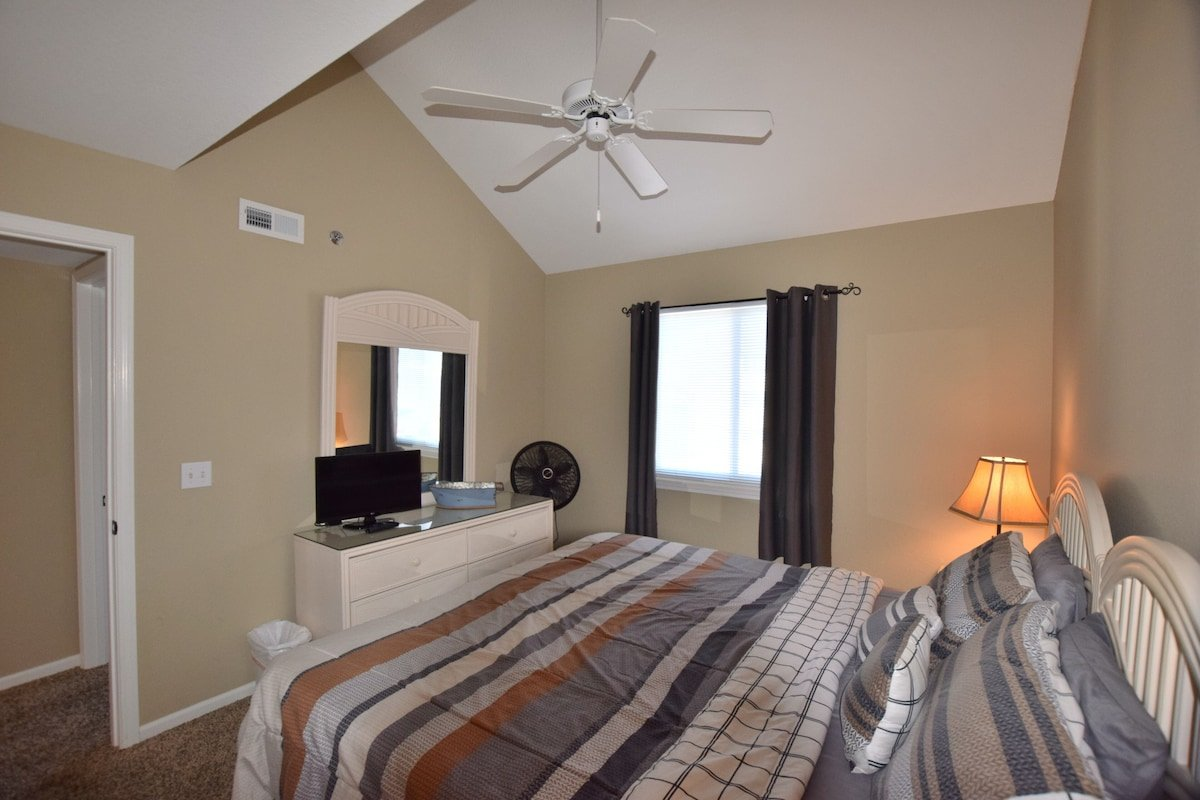
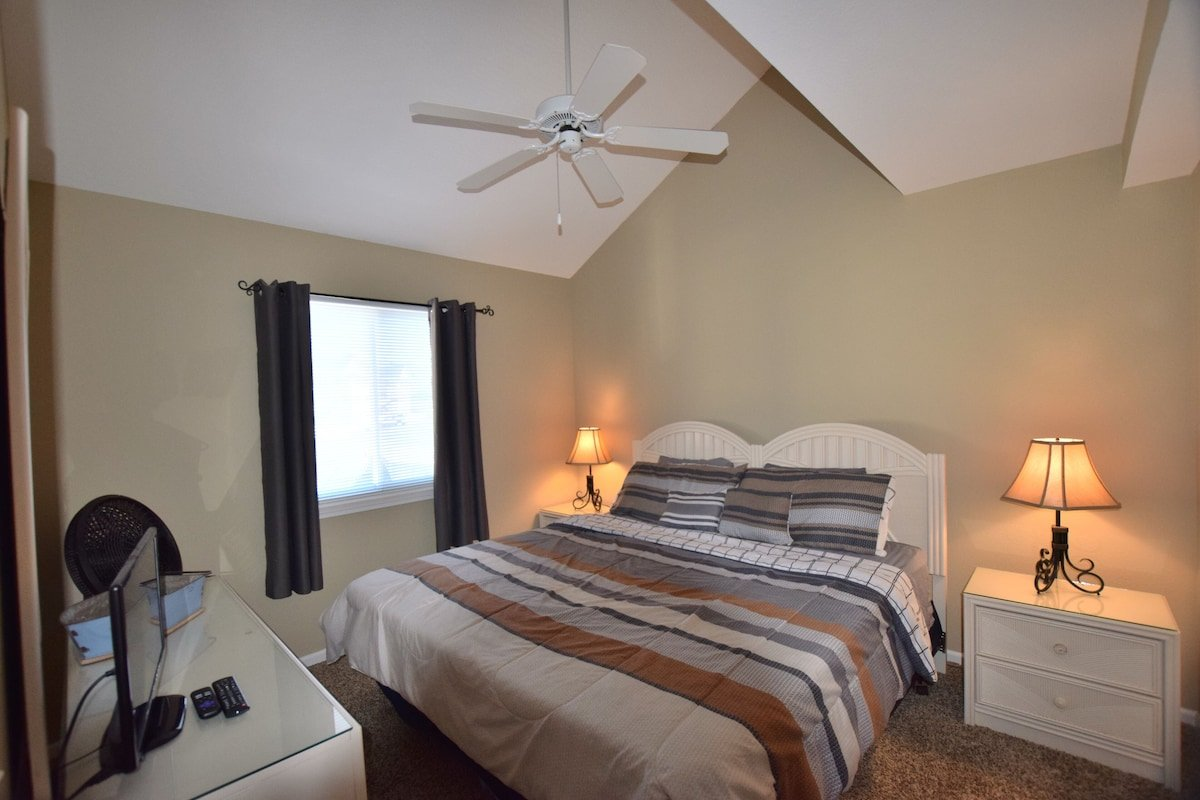
Update image paths and details for 4-bedroom unit 941 to enhance visual consistency by replacing existing images and ensuring accurate representation across property pages.

diff --git a/Properties/Ledges/4-bedroom-sleeps-12-unit-941.html b/Properties/Ledges/4-bedroom-sleeps-12-unit-941.html
@@ -92,16 +92,8 @@
       "4 Bedroom (Sleeps 12) - Unit 941/img001.jpeg",
       "4 Bedroom (Sleeps 12) - Unit 941/img020.jpeg",
       "4 Bedroom (Sleeps 12) - Unit 941/img021.jpeg",
-      "4 Bedroom (Sleeps 12) - Unit 941/img022.jpeg",
-      "4 Bedroom (Sleeps 12) - Unit 941/img023.jpeg",
-      "4 Bedroom (Sleeps 12) - Unit 941/img024.jpeg",
-      "4 Bedroom (Sleeps 12) - Unit 941/img025.jpeg",
-      "4 Bedroom (Sleeps 12) - Unit 941/img026.jpeg",
-      "4 Bedroom (Sleeps 12) - Unit 941/img027.jpeg",
-      "4 Bedroom (Sleeps 12) - Unit 941/img028.jpeg",
       "4 Bedroom (Sleeps 12) - Unit 941/img029.jpeg",
-      "4 Bedroom (Sleeps 12) - Unit 941/img001.jpeg",
-
+      "4 Bedroom (Sleeps 12) - Unit 941/img030.jpeg"
     ];
   </script>         
         <!-- Navigation -->
@@ -160,15 +152,15 @@
                     </template>
                 </div>
                 <div class="absolute bottom-0 left-0 right-0 bg-gradient-to-t from-black/90 via-black/50 to-transparent pt-12 pb-4 px-6 pointer-events-none">
-                    <h1 class="font-serif text-xl font-bold text-white mb-0.5">4 Bedroom (Sleeps 12) - Unit 1017</h1>
+                    <h1 class="font-serif text-xl font-bold text-white mb-0.5">4 Bedroom (Sleeps 12) - Unit 941</h1>
                     <p class="text-white/90 text-xs">Osage Beach · Lakefront · Swipe for more photos</p>
                 </div>
             </div>
             <div class="hidden md:block relative cursor-pointer" @click="modalOpen = true; currentSlide = 0">
-                <img :src="propertyImages[0]" alt="Unit 1017 - Lakefront views with pool and dock access" class="w-full h-screen object-cover">
+                <img :src="propertyImages[0]" alt="Unit 941 - Lakefront views with pool and dock access" class="w-full h-screen object-cover">
                 <div class="absolute inset-0 hero-gradient"></div>
                 <div class="absolute bottom-0 left-0 right-0 p-8 text-white">
-                    <h1 class="font-serif text-5xl md:text-6xl font-bold mb-2">4 Bedroom (Sleeps 12) - Unit 1017</h1>
+                    <h1 class="font-serif text-5xl md:text-6xl font-bold mb-2">4 Bedroom (Sleeps 12) - Unit 941</h1>
                     <p class="text-xl opacity-90">Osage Beach · Lakefront</p>
                 </div>
             </div>
@@ -204,7 +196,7 @@
                     <div class="lg:col-span-2 space-y-16"> 
                         <!-- Photo Gallery -->
                         <div>
-                            <h2 class="font-serif text-2xl md:text-3xl font-bold mb-4 md:mb-6">All 40 Photos</h2>
+                            <h2 class="font-serif text-2xl md:text-3xl font-bold mb-4 md:mb-6">All 23 Photos</h2>
                             <div class="flex overflow-x-auto no-scrollbar gap-3 md:gap-4 pb-4 -mx-6 px-6 md:mx-0 md:px-0 snap-x snap-mandatory md:snap-none" style="-webkit-overflow-scrolling: touch;">
                                 <template x-for="(img, index) in propertyImages" :key="index">
                                     <img :src="img" @click="modalOpen = true; currentSlide = index" class="h-32 w-44 md:h-40 md:w-56 object-cover rounded-lg shadow-md cursor-pointer hover:opacity-90 transition-opacity flex-shrink-0 snap-center" alt="Property photo" loading="lazy">
@@ -275,7 +267,7 @@
                         <div class="bg-white rounded-2xl shadow-xl border border-gray-200 p-8"> 
                             <div class="text-center">                                  
                                 <p class="text-green-600 font-bold text-xl mb-6">Call for Availability</p> 
-                                <a href="mailto:sobrentals@yahoo.com?subject=Book 4 Bedroom (Sleeps 12) - Unit 1017" class="btn-primary w-full py-4 rounded-lg text-white font-bold text-lg inline-flex items-center justify-center space-x-2">  
+                                <a href="mailto:sobrentals@yahoo.com?subject=Book 4 Bedroom (Sleeps 12) - Unit 941" class="btn-primary w-full py-4 rounded-lg text-white font-bold text-lg inline-flex items-center justify-center space-x-2">  
                                     <span>Contact to Book</span>  
                                     <i data-lucide="arrow-right" class="h-5 w-5"></i>  
                                 </a> 
